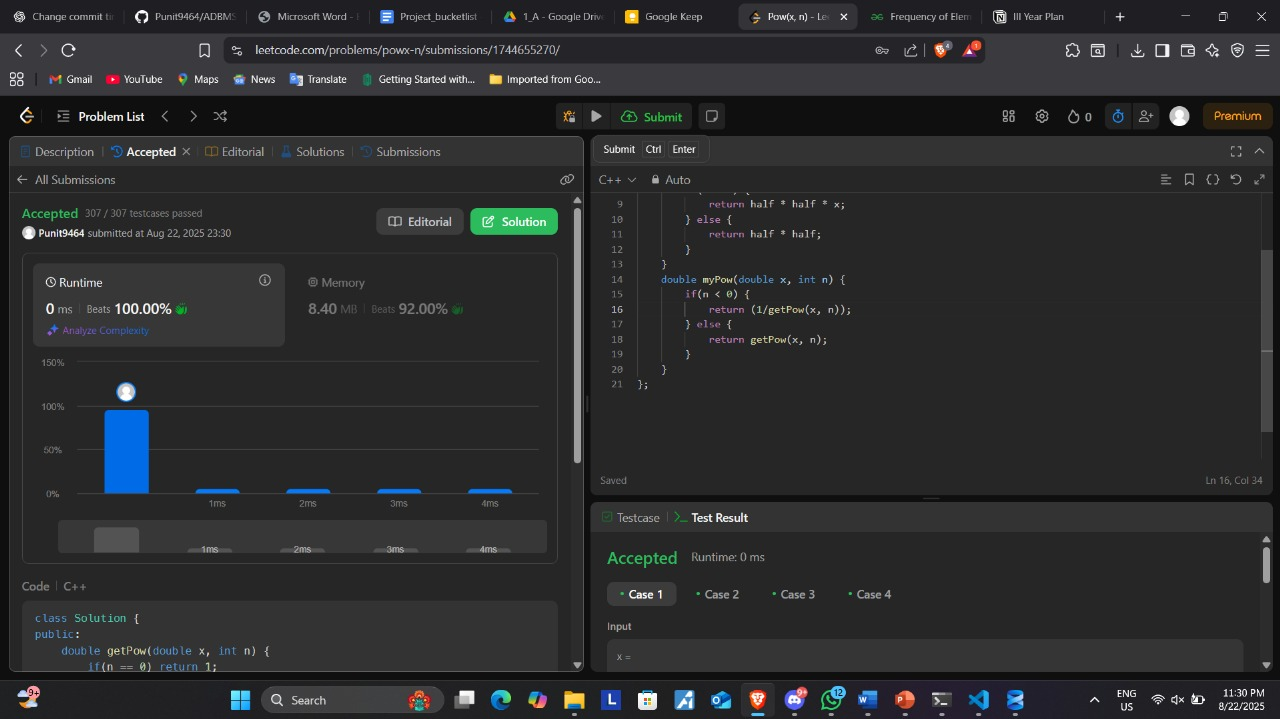
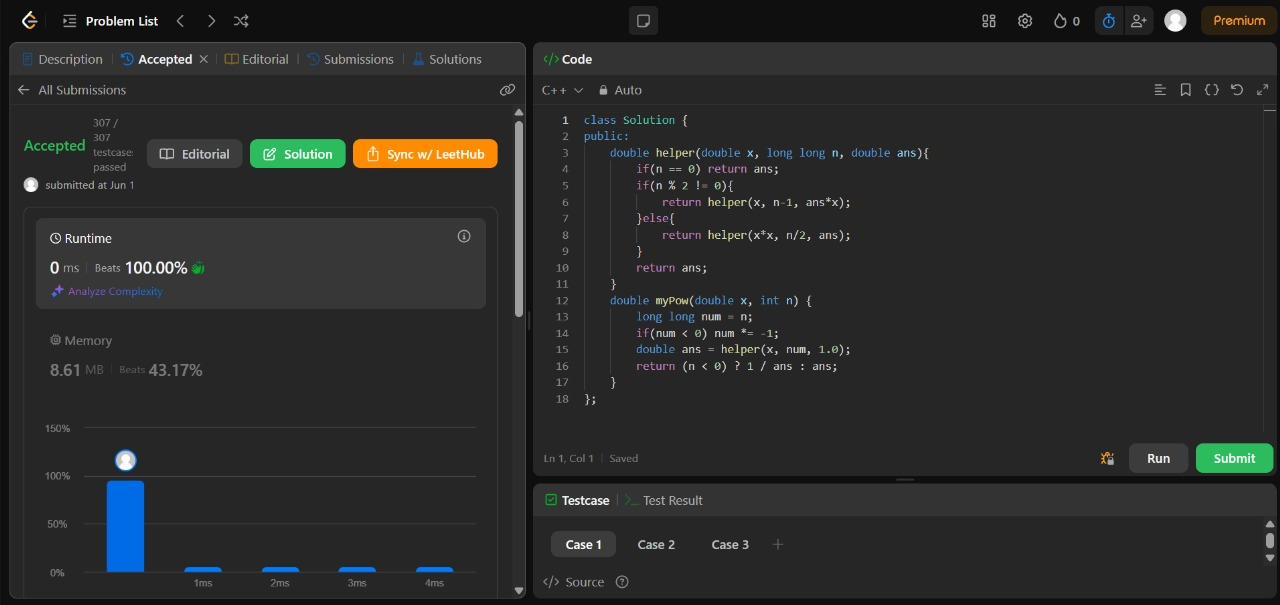
exp 5-9 done

diff --git a/Experiment 6/exp6.cpp b/Experiment 6/exp6.cpp
@@ -1,0 +1,72 @@
+/*
+    Aim: Develop a program and analyze complexity to implement subset-sum problem using Dynamic Programming.
+*/
+
+#include <bits/stdc++.h>
+using namespace std;
+
+bool recurse(vector<int> &arr, int index, int target) {
+    if(target == 0) return true;
+    if(index == 0) return arr[index] == target;
+
+    int pick = false;
+    if(arr[index] <= target) {
+        pick = recurse(arr, index-1, target-arr[index]);
+    }
+    int notPick = recurse(arr, index-1, target);
+
+    return pick | notPick;
+}
+
+bool memoize(vector<int> &arr, int index, int target, vector<vector<int>> &dp) {
+    if(target == 0) return true;
+    if(index == 0) return arr[index] == target;
+
+    if(dp[index][target] != -1) return dp[index][target];
+
+    int pick = false;
+    if(arr[index] <= target) {
+        pick = memoize(arr, index-1, target-arr[index], dp);
+    }
+    int notPick = memoize(arr, index-1, target, dp);
+
+    return dp[index][target] = pick | notPick;
+}
+
+bool tabulate(vector<int> &arr, int target) {
+    int n = arr.size();
+    vector<vector<bool>> dp(n, vector<bool>(target+1, false));
+    for(int i = 0; i < n; i++) dp[i][0] = true;
+    if(arr[0] <= target) dp[0][arr[0]] = true;
+
+    for(int i = 1; i < n; i++) {
+        for(int j = 1; j <= target; j++) {
+            int pick = false;
+            if(arr[i] <= j) {
+                pick = dp[i-1][j-arr[i]];
+            }
+            int notPick = dp[i-1][j];
+            dp[i][j] = pick | notPick;
+        }
+    }
+
+    return dp[n-1][target];
+}
+
+bool subsetSum(vector<int> &arr, int target) {
+    // return recurse(arr, arr.size()-1, target);
+    // vector<vector<int>> dp(arr.size(), vector<int>(target+1, -1));
+    // return memoize(arr, arr.size()-1, target, dp);
+    return tabulate(arr, target);
+}
+
+int main() {
+    vector<int> arr = { 3, 2, 7, 1 };
+    int target = 6;
+    if(subsetSum(arr, target)) {
+        cout<<"True"<<'\n';
+    } else {
+        cout<<"False"<<'\n';
+    }
+    return 0;
+}

diff --git a/Experiment 7/exp7.cpp b/Experiment 7/exp7.cpp
@@ -1,0 +1,47 @@
+/*
+    Aim: Develop a program and analyze complexity to implement 0-1 Knapsack using Dynamic Programming.
+    A thief is robbing a store and can carry a maximal weight of W into his knapsack. There are n items and weight of ith item is wi and the profit of selecting this item is pi. What items should the thief take?
+ 
+    Let i be the highest-numbered item in an optimal solution S for W dollars. Then S' = S - {i} is an optimal solution for W - wi dollars and the value to the solution S is Vi plus the value of the sub-problem.
+    We can express this fact in the following formula: define c[i, w] to be the solution for items 1,2, … , i and the maximum weight w.
+    The algorithm takes the following inputs
+    ·      The maximum weight W
+    ·      The number of items n
+    ·      The two sequences v = <v1, v2, …, vn> and w = <w1, w2, …, wn>
+*/
+
+#include <bits/stdc++.h>
+using namespace std;
+
+int unboundedKnapsack(int n, int W, vector<int>& val, vector<int>& wt) {
+    vector<vector<int>> dp(n, vector<int>(W + 1, 0));
+
+    for (int i = wt[0]; i <= W; i++) {
+        dp[0][i] = (i / wt[0]) * val[0];
+    }
+
+    for (int ind = 1; ind < n; ind++) {
+        for (int cap = 0; cap <= W; cap++) {
+            int notTaken = 0 + dp[ind - 1][cap];
+
+            int taken = INT_MIN;
+            if (wt[ind] <= cap)
+                taken = val[ind] + dp[ind][cap - wt[ind]];
+
+            dp[ind][cap] = max(notTaken, taken);
+        }
+    }
+
+    return dp[n - 1][W];
+}
+
+int main() {
+    vector<int> wt = { 2, 4, 6 };
+    vector<int> val = { 5, 11, 13 };
+    int W = 10;
+    int n = wt.size();
+
+    cout << "The Maximum value of items the thief can steal is " << unboundedKnapsack(n, W, val, wt) << endl;
+
+    return 0;
+}

diff --git a/Experiment 8/exp8.cpp b/Experiment 8/exp8.cpp
@@ -1,0 +1,60 @@
+/*
+    Aim: Develop a program and analyze complexity to find shortest paths in a graph with positive edgeweights using Dijkstra‟s algorithm.
+*/
+
+#include <bits/stdc++.h>
+using namespace std;
+
+#define V 6
+
+int minDistance(int dist[], bool sptSet[]) {
+    int min = INT_MAX, min_index;
+
+    for (int v = 0; v < V; v++)
+        if (sptSet[v] == false && dist[v] <= min)
+            min = dist[v], min_index = v;
+
+    return min_index;
+}
+
+void printSolution(int dist[]) {
+    cout << "Vertex \t Distance from Source\n";
+    for (int i = 0; i < V; i++)
+        cout << i << "\t\t" << dist[i] << endl;
+}
+
+void dijkstra(int graph[V][V], int src) {
+    int dist[V];
+    bool sptSet[V];
+
+    for (int i = 0; i < V; i++)
+        dist[i] = INT_MAX, sptSet[i] = false;
+
+    dist[src] = 0;
+
+    for (int count = 0; count < V - 1; count++) {
+        int u = minDistance(dist, sptSet);
+        sptSet[u] = true;
+
+        for (int v = 0; v < V; v++)
+            if (!sptSet[v] && graph[u][v] && dist[u] != INT_MAX
+                && dist[u] + graph[u][v] < dist[v])
+                dist[v] = dist[u] + graph[u][v];
+    }
+
+    printSolution(dist);
+}
+
+int main() {
+    int graph[V][V] = {
+        {0, 2, 0, 1, 0, 0},
+        {2, 0, 3, 2, 0, 0},
+        {0, 3, 0, 0, 0, 1},
+        {1, 2, 0, 0, 1, 0},
+        {0, 0, 0, 1, 0, 2},
+        {0, 0, 1, 0, 2, 0}
+    };
+
+    dijkstra(graph, 0); // Source vertex = 0
+    return 0;
+}

diff --git a/Experiment 5/exp5.cpp b/Experiment 5/exp5.cpp
@@ -1,0 +1,53 @@
+/*
+    Aim: Sort a given set of elements using the Quick sort method and determine the time required to sort the elements. Repeat the experiment for different values of n, the number of elements in the list to be sorted. The elements can be read from a file or can be generated using the random number generator.
+*/
+
+#include <bits/stdc++.h>
+using namespace std;
+
+int partition(vector<int> &arr, int low, int high) {
+    int pivot = arr[low];
+    int i = low;
+    int j = high;
+
+    while(i < j) {
+        while(arr[i] <= pivot && i <= high-1) {
+            i++;
+        }
+
+        while(arr[j] > pivot && j >= low+1) j--;
+
+        if(i < j) swap(arr[i], arr[j]);
+    }
+    swap(arr[j], arr[low]);
+    return j;
+}
+
+void qS(vector<int> &arr, int n, int low, int high) {
+    if(low >= high) return;
+    int part = partition(arr, low, high);
+    qS(arr, n, low, part-1);
+    qS(arr, n, part+1, high);
+}
+
+void quickSort(vector<int> &arr) {
+    int n = arr.size();
+    int low = 0, high = n-1;
+    qS(arr, n, low, high);
+}
+
+int main() {
+    vector<int> arr = { 10, 7, 8, 9, 1, 5 };
+    cout<<"Array before Soring: ";
+    for(int i = 0; i < arr.size(); i++) {
+        cout<<arr[i]<<' ';
+    }
+    cout<<'\n';
+    quickSort(arr);
+    cout<<"Array after Sorting: ";
+    for(int i = 0; i < arr.size(); i++) {
+        cout<<arr[i]<<' ';
+    }
+    cout<<'\n';
+    return 0;
+}

diff --git a/Experiment 9/exp9.cpp b/Experiment 9/exp9.cpp
@@ -1,0 +1,55 @@
+/*
+    Aim: Develop a program and analyze complexity to find all occurrences of a pattern P in a given stringS.
+*/
+
+#include <bits/stdc++.h>
+using namespace std;
+
+#define d 256 
+
+void rabinKarp(string text, string pattern, int q) {
+    int n = text.length();
+    int m = pattern.length();
+    int i, j;
+    int p = 0;
+    int t = 0;
+    int h = 1;
+
+    for (i = 0; i < m - 1; i++)
+        h = (h * d) % q;
+
+    for (i = 0; i < m; i++) {
+        p = (d * p + pattern[i]) % q;
+        t = (d * t + text[i]) % q;
+    }
+
+    for (i = 0; i <= n - m; i++) {
+        if (p == t) {
+            bool match = true;
+            for (j = 0; j < m; j++) {
+                if (text[i + j] != pattern[j]) {
+                    match = false;
+                    break;
+                }
+            }
+            if (match)
+                cout << "Pattern found at index " << i << endl;
+        }
+
+        if (i < n - m) {
+            t = (d * (t - text[i] * h) + text[i + m]) % q;
+
+            if (t < 0)
+                t = (t + q);
+        }
+    }
+}
+
+int main() {
+    string text = "ABCCDDAEFG";
+    string pattern = "CDD";
+    int q = 101;
+
+    rabinKarp(text, pattern, q);
+    return 0;
+}
